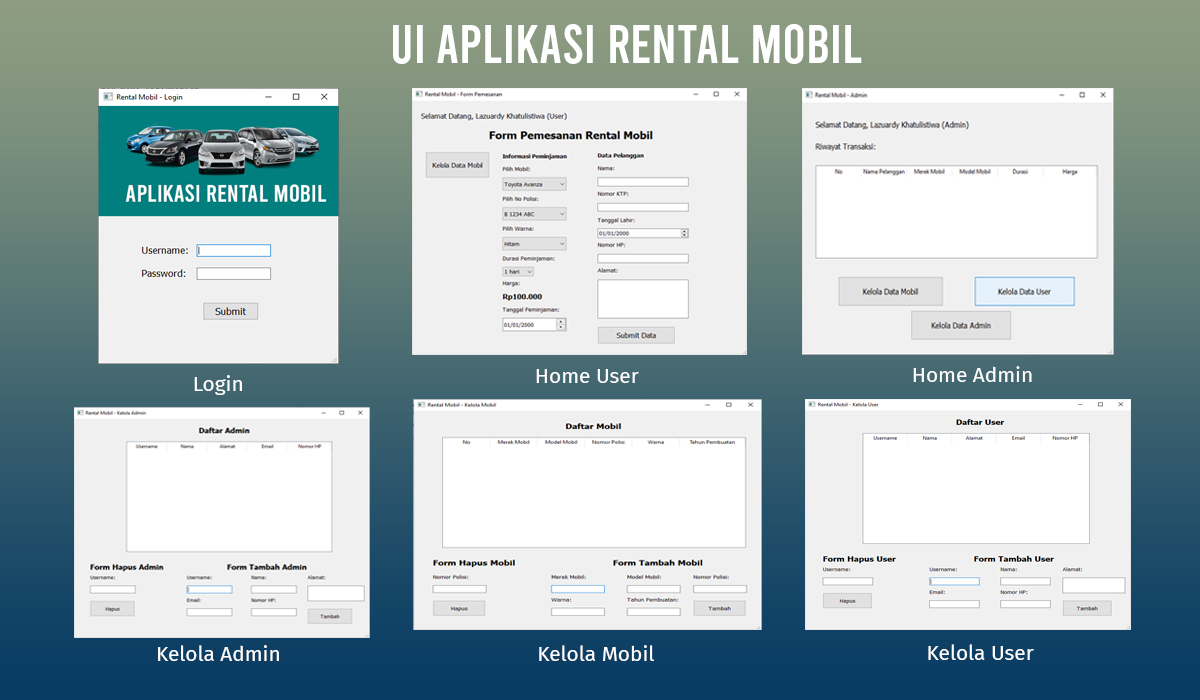
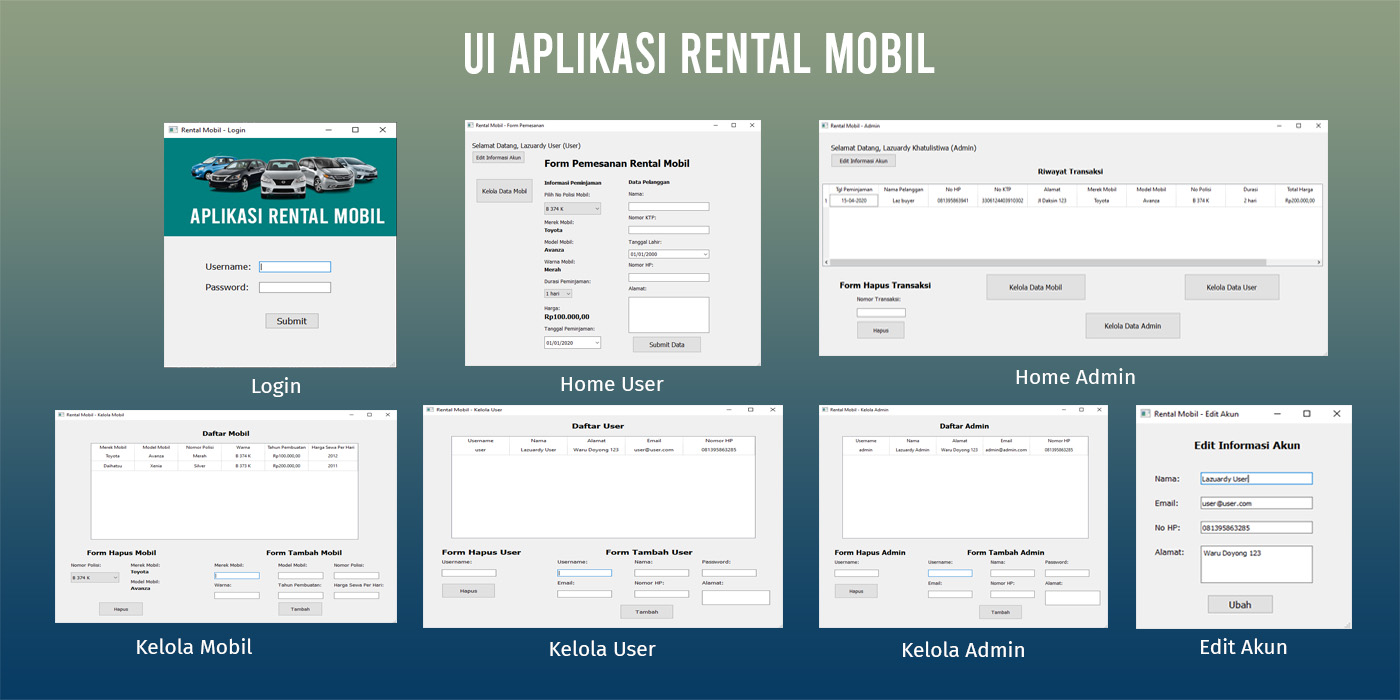
change docs

Changed region(s): [[0.0308, 0.03, 0.9867, 0.96]]

diff --git a/app/views/editaccount.py b/app/views/editaccount.py
@@ -60,7 +60,7 @@ class EditAccount_Window(object):
 
     def retranslateUi(self, MainWindow):
         _translate = QtCore.QCoreApplication.translate
-        MainWindow.setWindowTitle(_translate("MainWindow", "MainWindow"))
+        MainWindow.setWindowTitle(_translate("MainWindow", "Rental Mobil - Edit Akun"))
         self.lineEdit.setText(self.name)
         self.lineEdit_2.setText(self.email)
         self.lineEdit_3.setText(self.phone)
@@ -78,7 +78,7 @@ class EditAccount_Window(object):
         email = self.lineEdit_2.text()
         phone = self.lineEdit_3.text()
         address = self.textEdit.toPlainText()
-        self.editaccountcontroller.editAkun(name, email, phone, address)
+        self.editaccountcontroller.editAccount(name, email, phone, address)
         self.MainWindow.close()
         self.popupSuccess()
     

diff --git a/app/controllers/editaccountcontroller.py b/app/controllers/editaccountcontroller.py
@@ -17,7 +17,7 @@ class EditAccountController:
     def getPhone(self):
         return self.user.getPhone()
     
-    def editAkun(self, name, email, phone, address):
+    def editAccount(self, name, email, phone, address):
         self.user.setName(name)
         self.user.setEmail(email)
         self.user.setPhone(phone)

diff --git a/docs/Model.md b/docs/Model.md
@@ -3,10 +3,10 @@
 Dalam aplikasi ini terdapat 3 model, berikut penjelasannya:
 
 #### User
-Model ini adalah model yang berhubungan dengan collection users. Dimana fungsinya adalah untuk keperluan autentikasi dan data user. Di model ini, datanya meliputi: ```nama, alamat, email, username, password, dan role```. Setiap data terdapat fungsi untuk mengaksesnya maupun mengubahnya.
+Model ini adalah model yang berhubungan dengan collection users. Dimana fungsinya adalah untuk keperluan autentikasi dan data user. Di model ini, datanya meliputi: ```nama, alamat, email, no hp, username, password, dan role```. Setiap data terdapat fungsi untuk mengaksesnya maupun mengubahnya.
 
 #### Transaction
-Model ini adalah model yang berhubungan dengan collection transactions. Dimana fungsinya adalah untuk mencatat semua transaksi yang berjalan. Di model ini, datanya meliputi: ```id mobil yang dipesan, durasi, nama pelanggan, alamat pelanggan, nomor hp pelanggan, nomor ktp pelanggan, dan total harga```. Setiap data terdapat fungsi untuk mengaksesnya maupun mengubahnya.
+Model ini adalah model yang berhubungan dengan collection transactions. Dimana fungsinya adalah untuk mencatat semua transaksi yang berjalan. Di model ini, datanya meliputi: ```id mobil yang dipesan, tanggal peminjaman, durasi, nama pelanggan, alamat pelanggan, nomor hp pelanggan, nomor ktp pelanggan, tanggal lahir pelanggan, dan total harga```. Setiap data terdapat fungsi untuk mengaksesnya maupun mengubahnya.
 
 #### Car
-Model ini adalah model yang berhubungan dengan collection cars. Dimana fungsinya adalah untuk mencatat semua mobil yang tersedia untuk dipinjam. Di model ini, datanya meliputi: ```merek mobil, model mobil, warna mobil, nomor polisi, dan harga per hari nya```. Setiap data terdapat fungsi untuk mengaksesnya maupun mengubahnya.
+Model ini adalah model yang berhubungan dengan collection cars. Dimana fungsinya adalah untuk mencatat semua mobil yang tersedia untuk dipinjam. Di model ini, datanya meliputi: ```merek mobil, model mobil, warna mobil, nomor polisi, tahun produksi, dan harga per hari nya```. Setiap data terdapat fungsi untuk mengaksesnya maupun mengubahnya.
